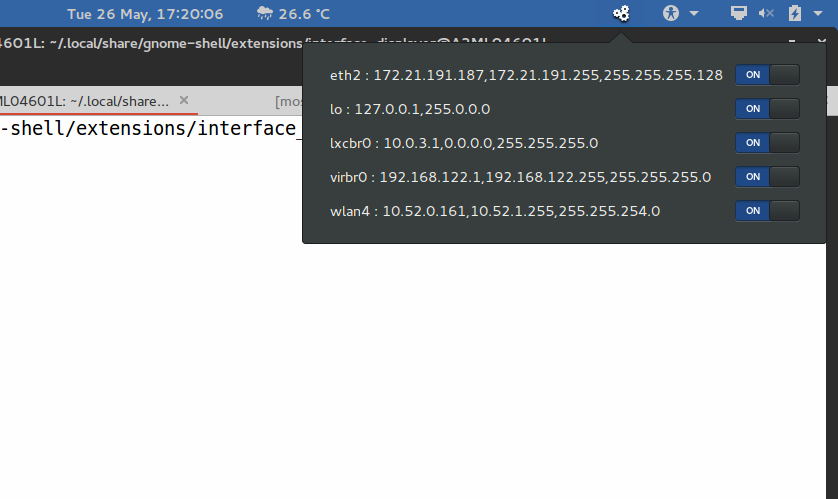
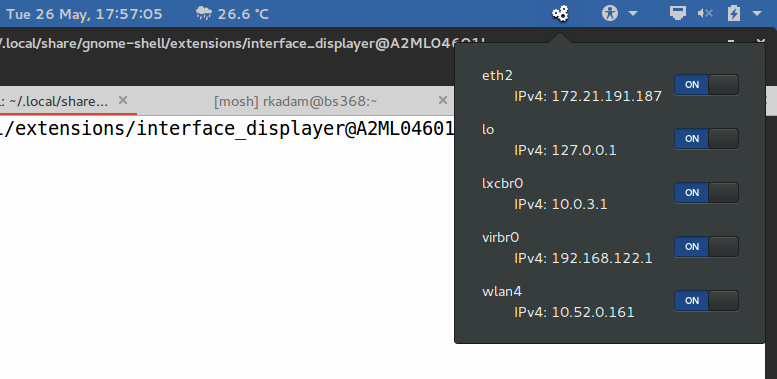
Changed code to display on ip address and updated screenshot

diff --git a/extension.js b/extension.js
@@ -10,21 +10,26 @@ function _showInterfaceInformation() {
 
     button.menu.removeAll();
 
-    let cmd = 'ifconfig';
-    let [_, out] = GLib.spawn_command_line_sync(cmd);
+    let [_, out] = GLib.spawn_command_line_sync('ifconfig');
 
     out = out.toString();
 
     let lines = out.split('\n');
 
     for (i=0; i < lines.length; i++) {
-        let intfname = lines[i].split(' ')[0];
-        if (intfname.length) {
-            let ipaddr = lines[i+1].match(/\d+.\d+.\d+.\d+/g);
+        let intf_name = lines[i].split(' ')[0];
+        if (intf_name.length) {
+            let ipv4_addr = lines[i + 1].match(/\d+.\d+.\d+.\d+/g);
+            let ipv6_addr = lines[i + 2];
+            ipv6_addr = ipv6_addr.split("");
 
-            let menuname = intfname + " : " + ipaddr;
+            let menu_name = intf_name + "\n\tIPv4: " + ipv4_addr[0];
 
-            let item = new PopupMenu.PopupSwitchMenuItem(menuname, true);
+            if (ipv6_addr[2] == 'inet6') {
+                menu_name += "\n\tIPv6: " + ipv6_addr[3];
+            }
+
+            let item = new PopupMenu.PopupSwitchMenuItem(menu_name, true);
             button.menu.addMenuItem(item);
         }
     }
